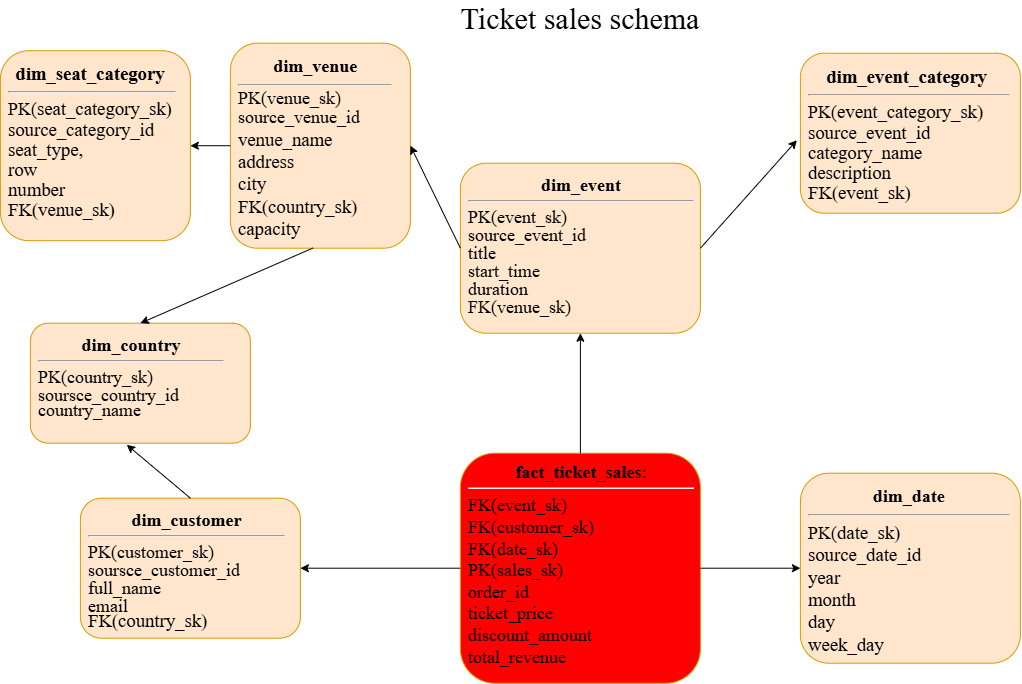
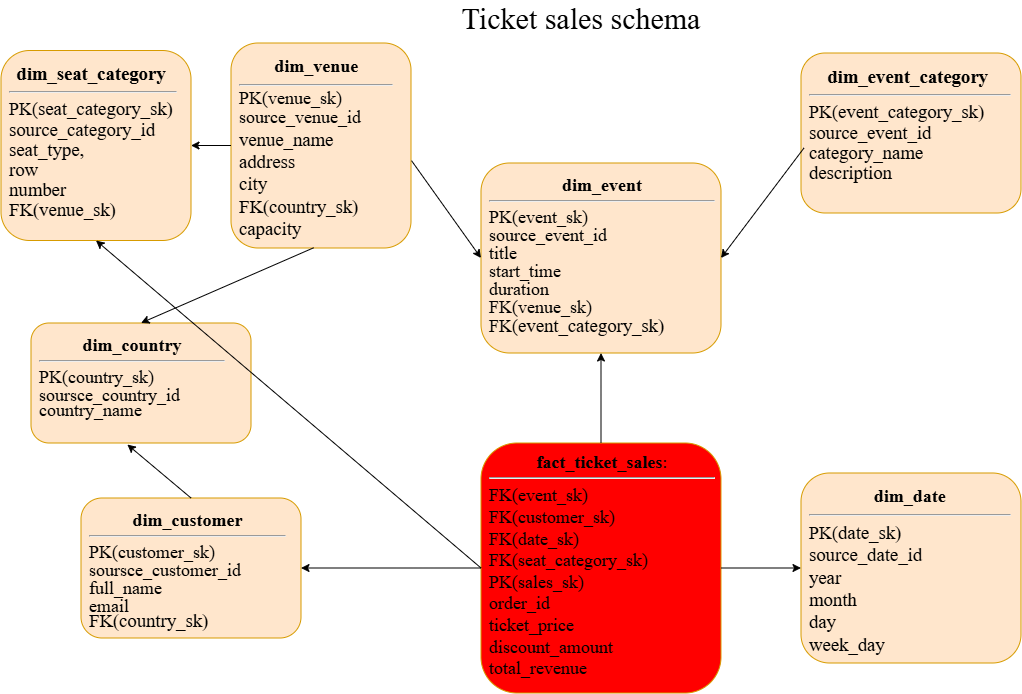
Add reworked part

diff --git a/Homework_5_DWH/Homework.md b/Homework_5_DWH/Homework.md
@@ -9,7 +9,7 @@
 ## 2.3. Dimensions:
 
 ### • dim_event – "What?"
-Attributes: event_sk, sourсe_event_id, title, start_time, duration, FK(venue_sk)
+Attributes: event_sk, sourсe_event_id, title, start_time, duration, FK(venue_sk), FK(event_category_sk)
 
 ### • dim_venue – "Where?"
 Attributes: venue_sk, sourсe_venue_id, venue_name, address, city, FK(country_sk), capacity
@@ -27,7 +27,7 @@ Attributes: date_sk, sourсe_date_id, year, month, day, week_day
 Attributes: seat_category_sk, source_category_id, seat_type, row, number, FK(venue_sk)
 
 ### • dim_event_category –"What event type?"
-Attributes: event_category_sk, source_event_id, category_name, description, FK(event_sk)
+Attributes: event_category_sk, source_event_category_id, category_name, description
 
 ## 2.4. Fact table: fact_ticket_sales:
 
@@ -35,6 +35,7 @@ Attributes: event_category_sk, source_event_id, category_name, description, FK(e
 - event_sk
 - customer_sk
 - date_sk
+- seat_category_sk 
 
 ### PK: 
 - sales_sk
